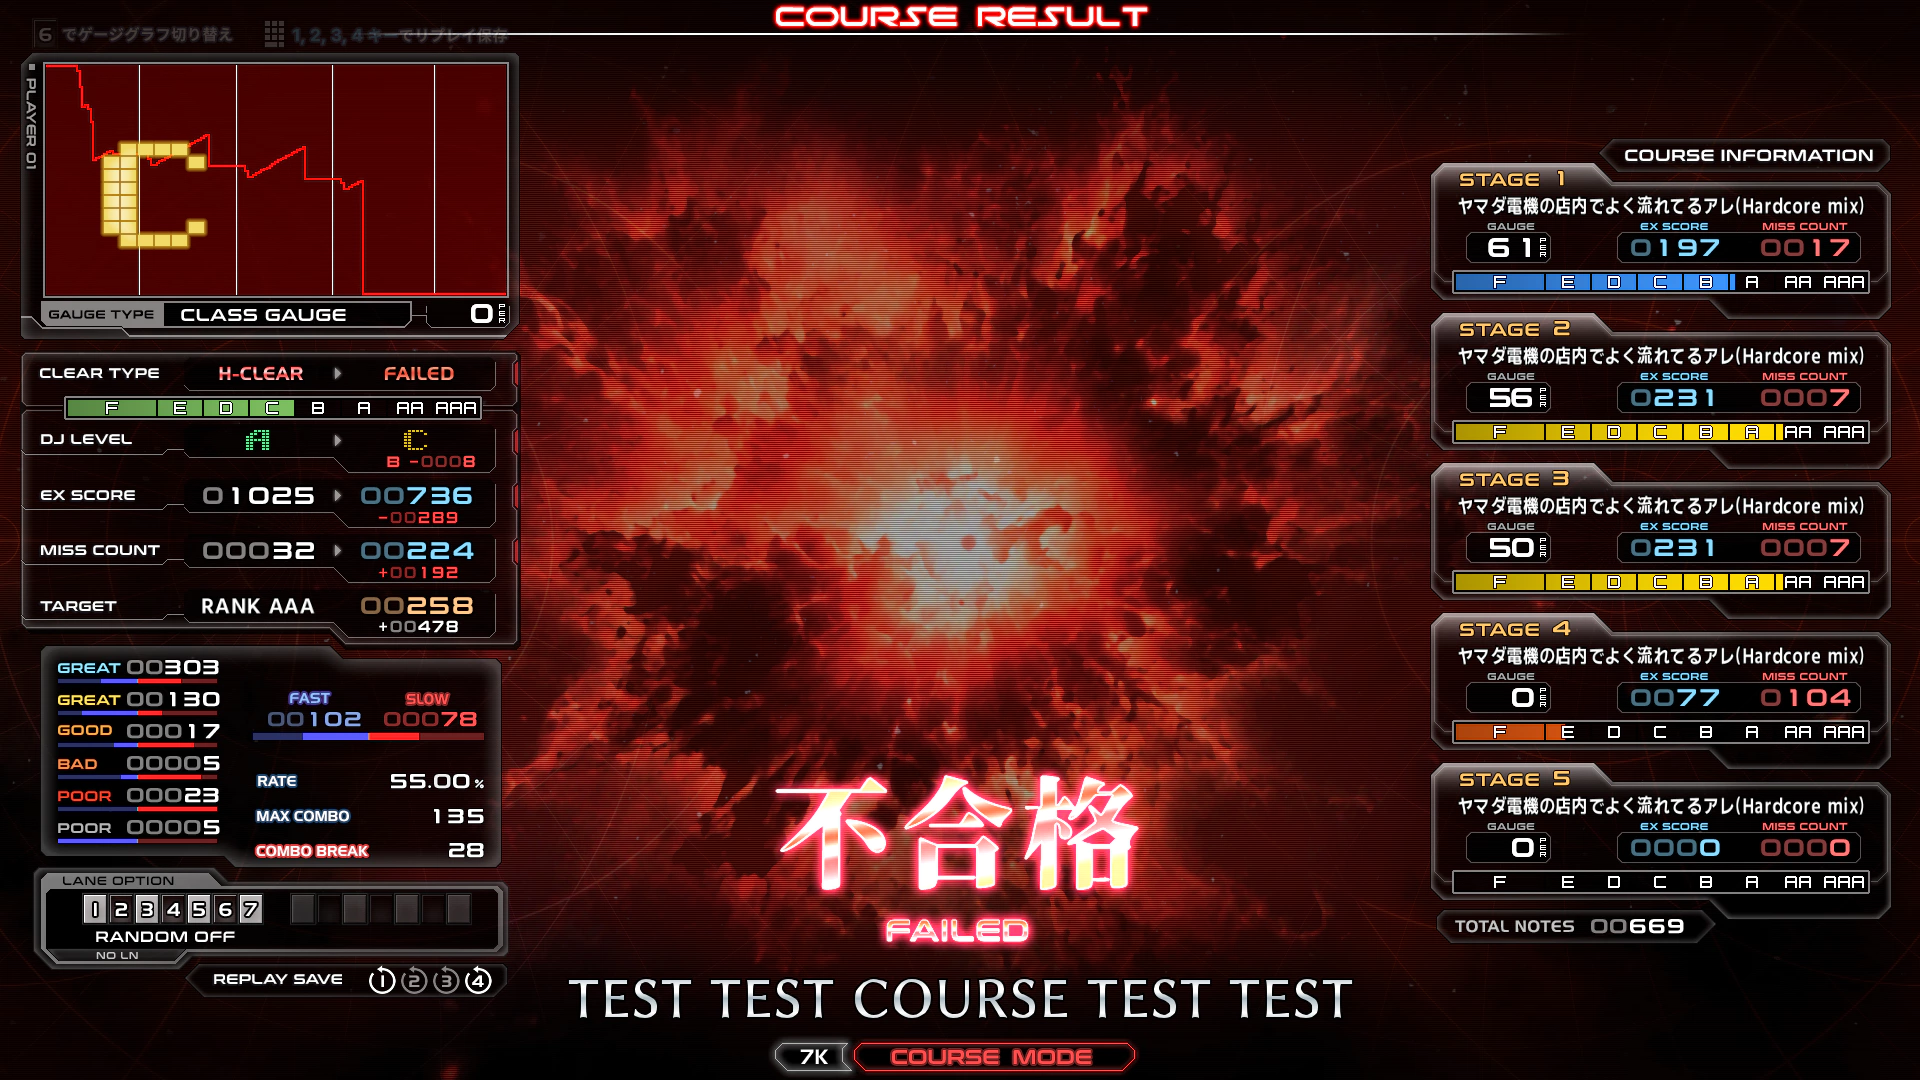
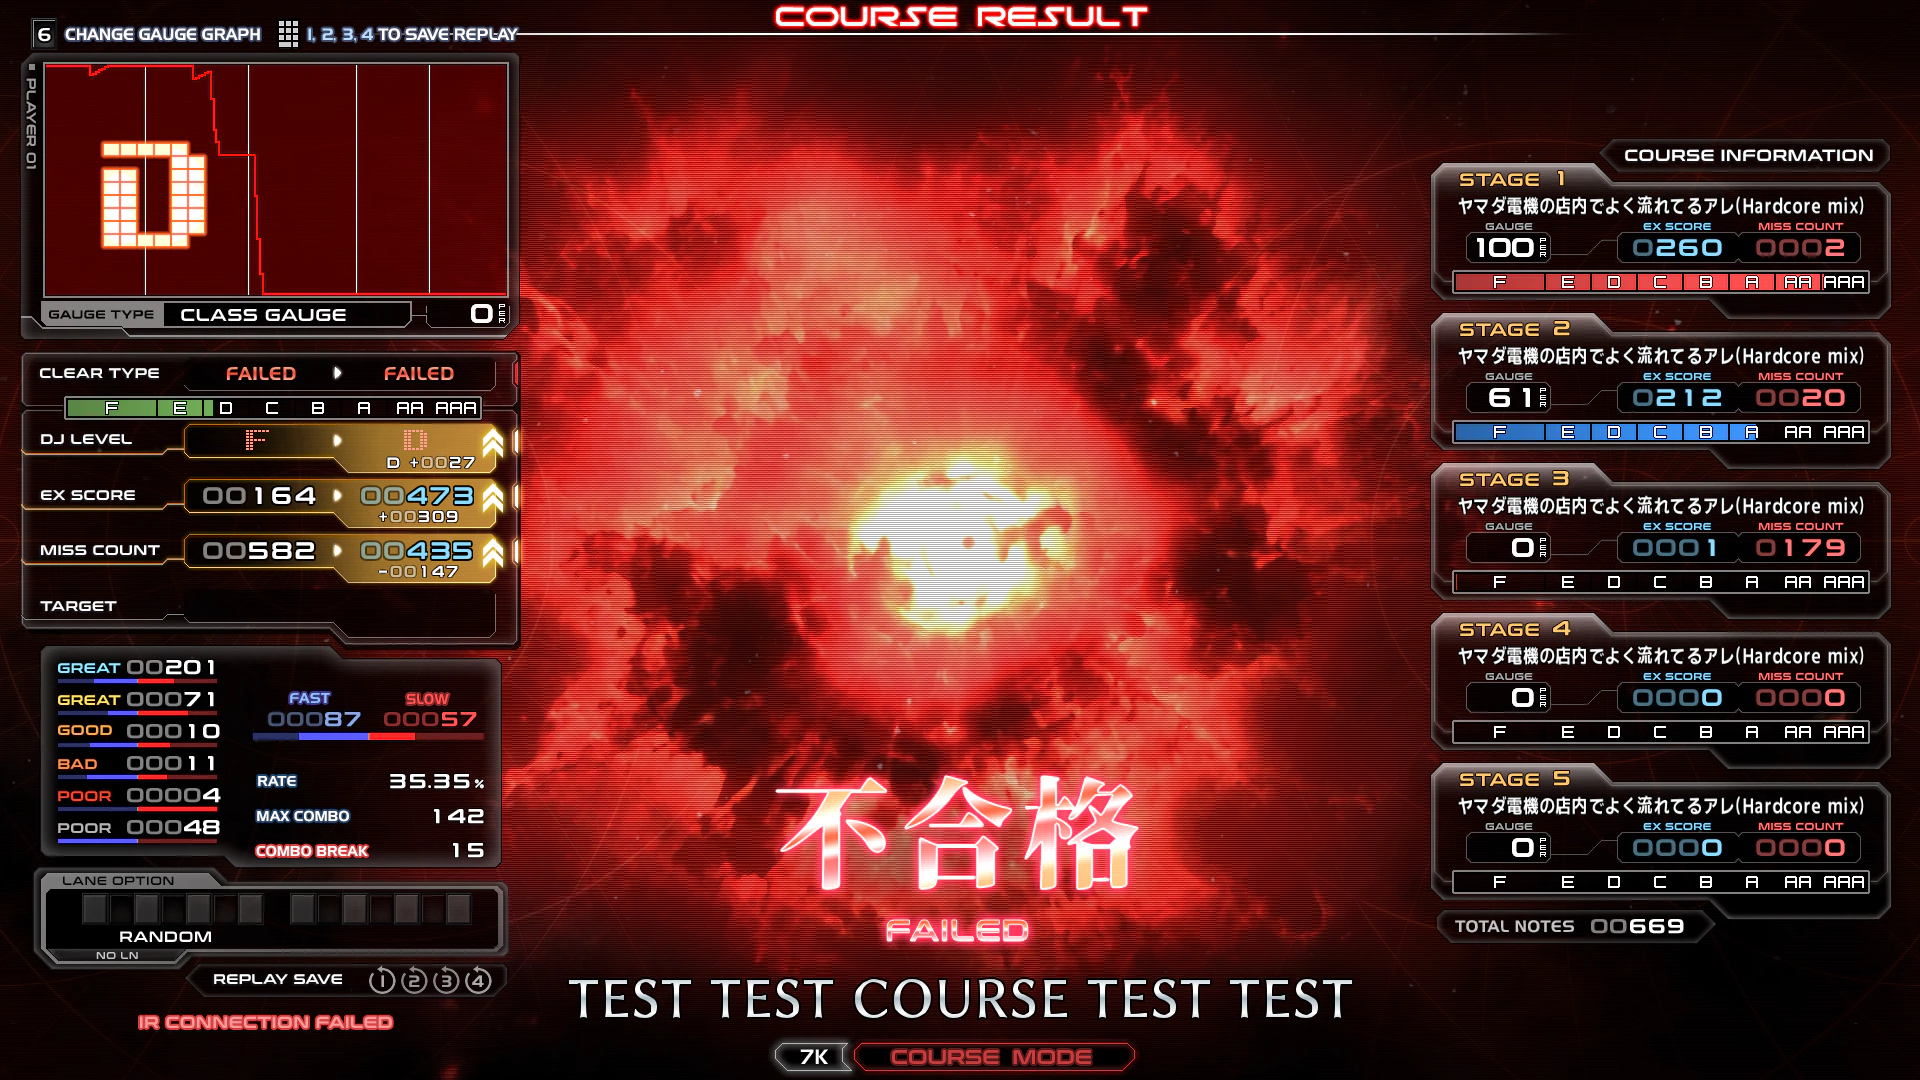
upupupu

diff --git a/src/App.tsx b/src/App.tsx
@@ -14,7 +14,7 @@ const SKINS = [
       "/images/skins/wmii-result-beatoraja/03.webp",
       "/images/skins/wmii-result-beatoraja/04.webp",
     ],
-    downloadUrl: "https://drive.google.com/file/d/11qq7UCmOwe8ngEJi1UXRDmJwvHds1Izf/view?usp=sharing",
+    downloadUrl: "https://drive.google.com/file/d/1KR4Cok7ac9WgAAnykODjyajzr6jxlIkg/view?usp=sharing",
     date: "26.05.10",
   },
   {
@@ -364,6 +364,10 @@ export default function App() {
                 <h3 className="text-sm font-black tracking-widest text-slate-900 uppercase">Update</h3>
               </div>
               <div className="space-y-3">
+                  <div className="flex flex-col md:flex-row md:items-center gap-2 md:gap-4">
+                  <span className="text-xs font-mono font-bold text-point bg-teal-50 px-2 py-0.5 rounded w-fit">26.05.10</span>
+                  <p className="text-sm text-slate-600 font-medium">WMII RESULT SKIN 코스리절트에서 기능하지않던 타겟 스코어 제거, 그외 미세 수정  </p>
+                </div>  
                 <div className="flex flex-col md:flex-row md:items-center gap-2 md:gap-4">
                   <span className="text-xs font-mono font-bold text-point bg-teal-50 px-2 py-0.5 rounded w-fit">26.05.10</span>
                   <p className="text-sm text-slate-600 font-medium">WMII RESULT SKIN 코스 리절트 추가 / WMII PLAY SKIN sp스킨 스코어그래프 그래프 시작지점 1픽셀 틈 수정, 5스테이지짜리 코스를 할 경우 4th stage표시가 이상한것을 수정</p>
